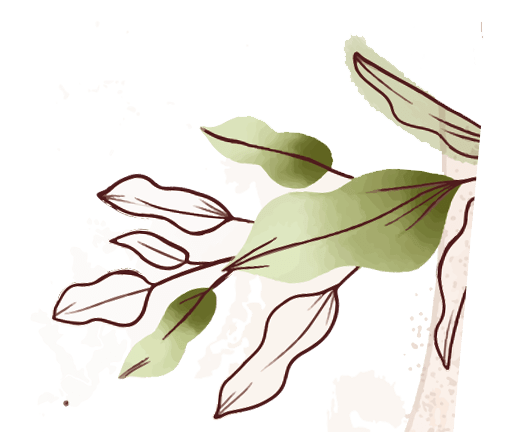
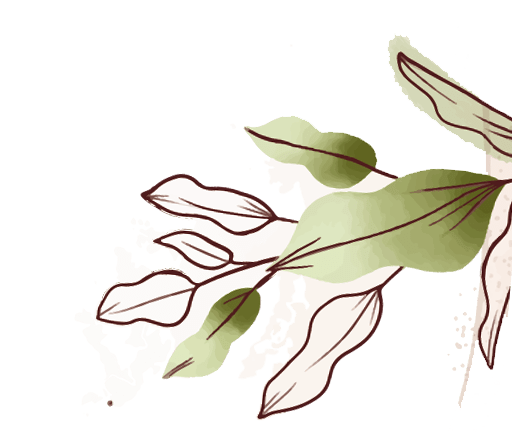
revisi 3

diff --git a/css/app.css b/css/app.css
@@ -157,7 +157,7 @@ body {
 .daun{
   position: absolute;
   top: -200px;
-  right: -50px;
+  right: -30px;
   z-index: 000;
 }
 
